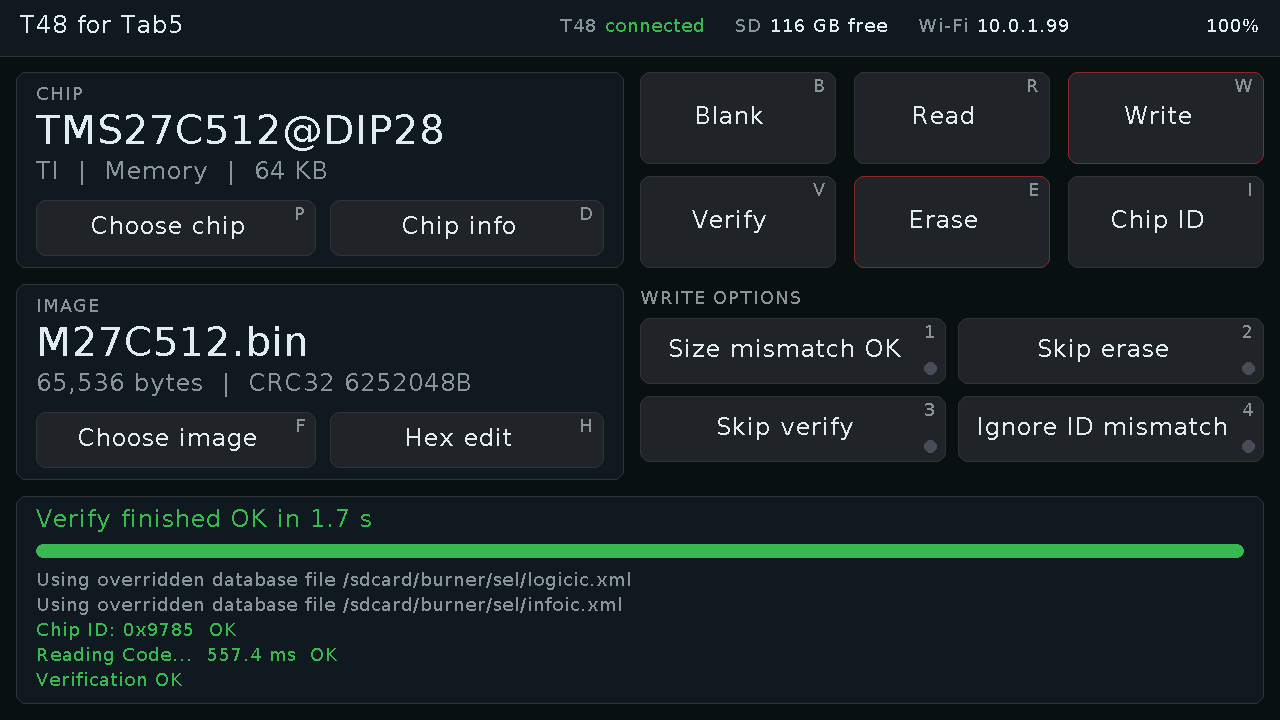
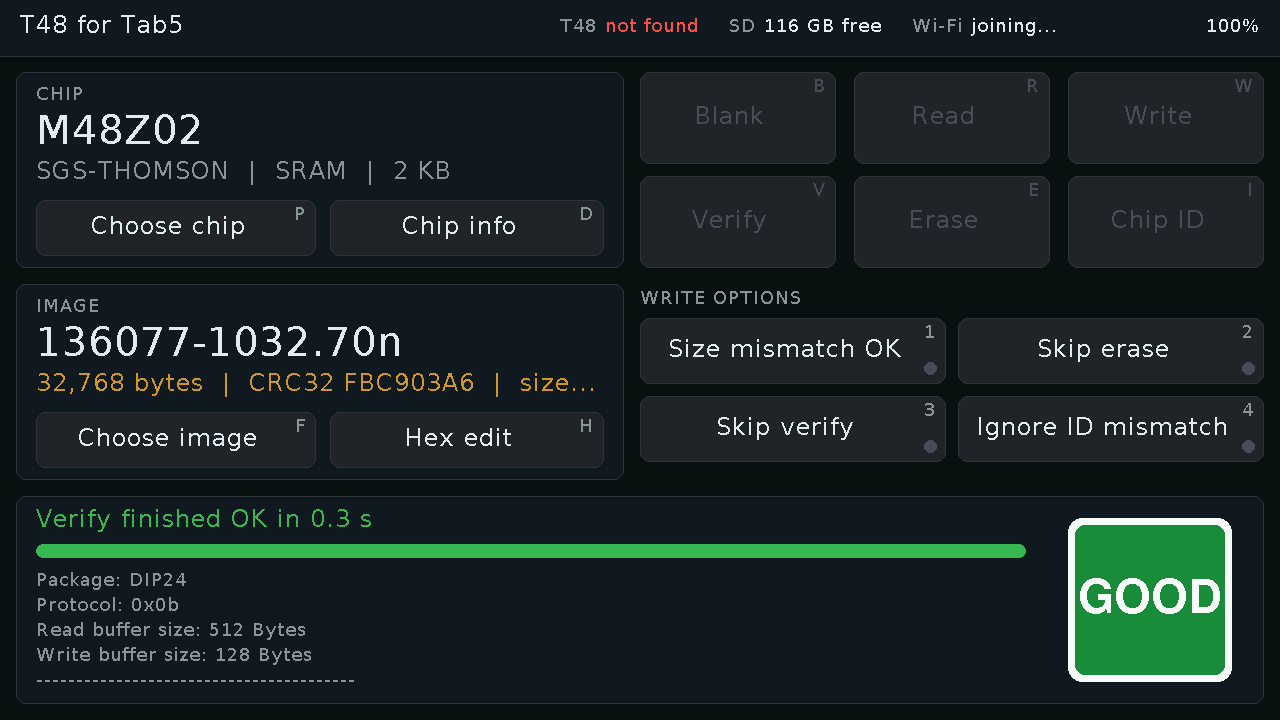
README: current screenshots (GOOD/STOP), the printed base and a photo

diff --git a/README.md b/README.md
@@ -20,6 +20,8 @@ replaced, so it behaves exactly as it does on a desktop.
 - **A sign you can read across the room** when a job ends: a red STOP sign
   if a blank check, read, write, verify, erase or chip ID fails, a green GOOD
   square if it passed.
+
+  ![A failed job: STOP](docs/result-stop.png)
 - **Wrong chip in the socket?** When the chip ID doesn't match the part you
   chose, the ID is looked up in the whole library (parts programmed the same
   way, same package first) and you're offered the match. An ID of 0000 or
@@ -56,6 +58,13 @@ replaced, so it behaves exactly as it does on a desktop.
 - XGecu T48 in the Tab5's USB-A port. The port is the P4's high-speed USB 2.0
   PHY and its 5 V switch (MT9700) comfortably powers the T48.
 - A microSD card formatted **FAT32** (the prebuilt ESP-IDF has exFAT off).
+- Optional: a 3D-printed **[base for the Tab5, keyboard and battery](https://makerworld.com/en/models/3400348-m5stack-tab5-keyboard-battery-base#profileId-3871457)**
+  (MakerWorld). It screws to the Tab5's four corner inserts and the
+  keyboard's two with six M3 countersunk screws, turning the pair into one
+  rigid unit that sits flat on the bench, with room underneath for the
+  NP-F550 battery to slide out.
+
+![T48 for Tab5 on its printed base, with the T48](docs/base.jpg)
 
 **Battery charging is paused during every job.** While the Tab5's battery
 charges, the T48 only sees about 4.4 V; with charging paused it gets 5 V.
